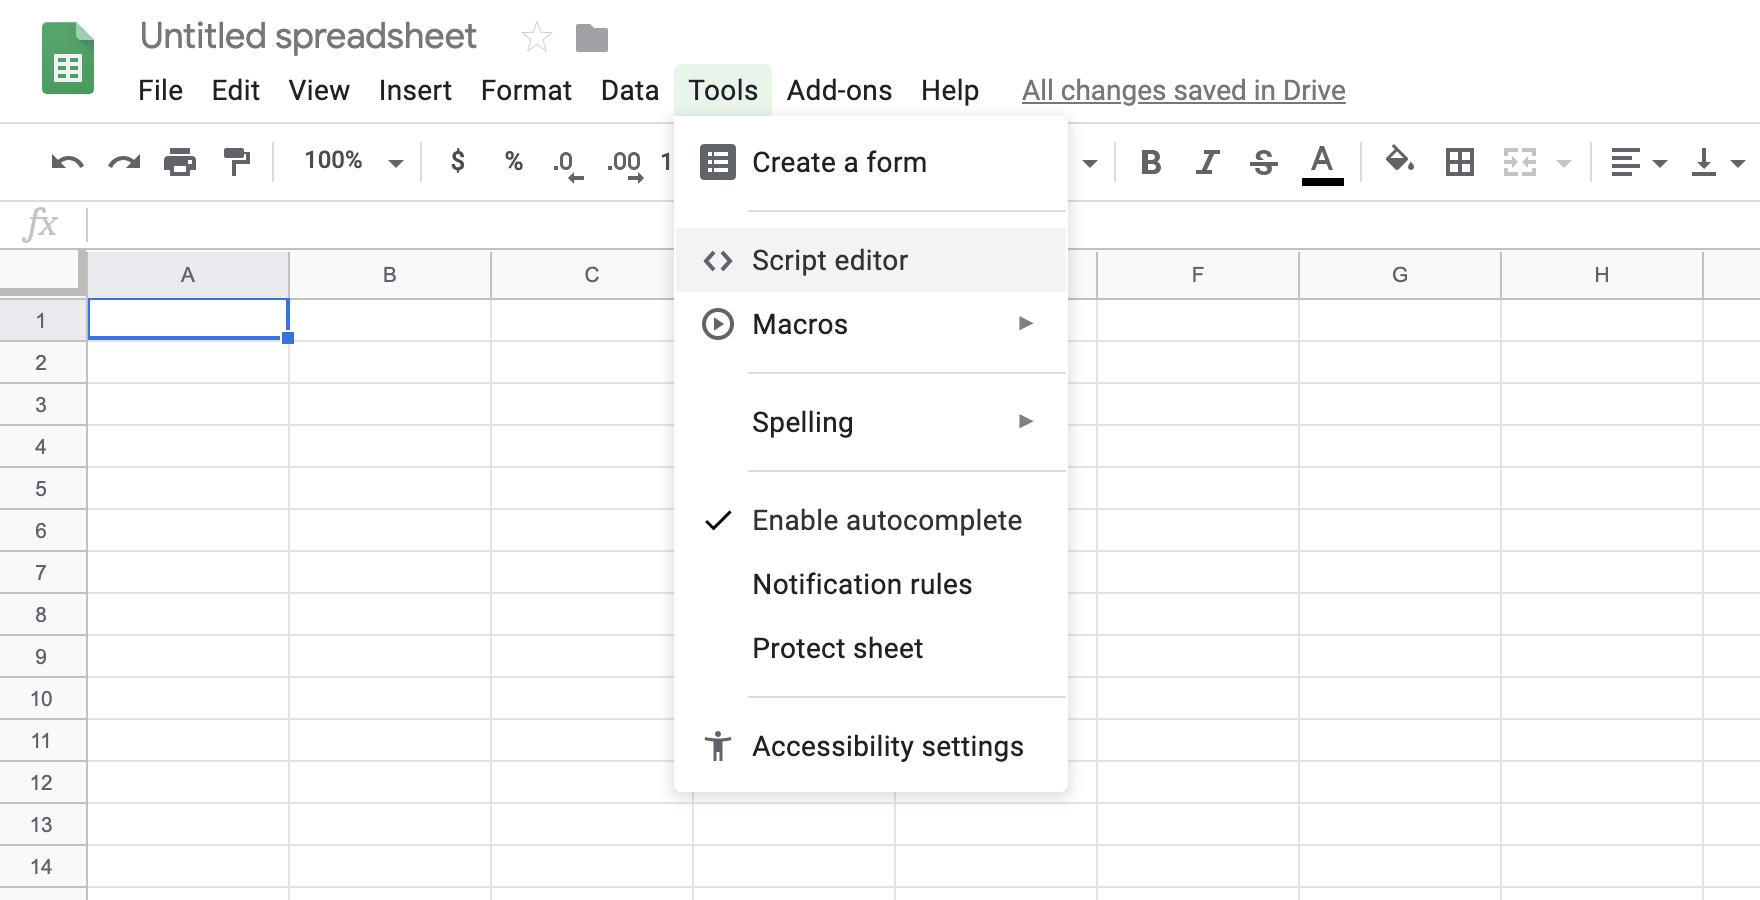
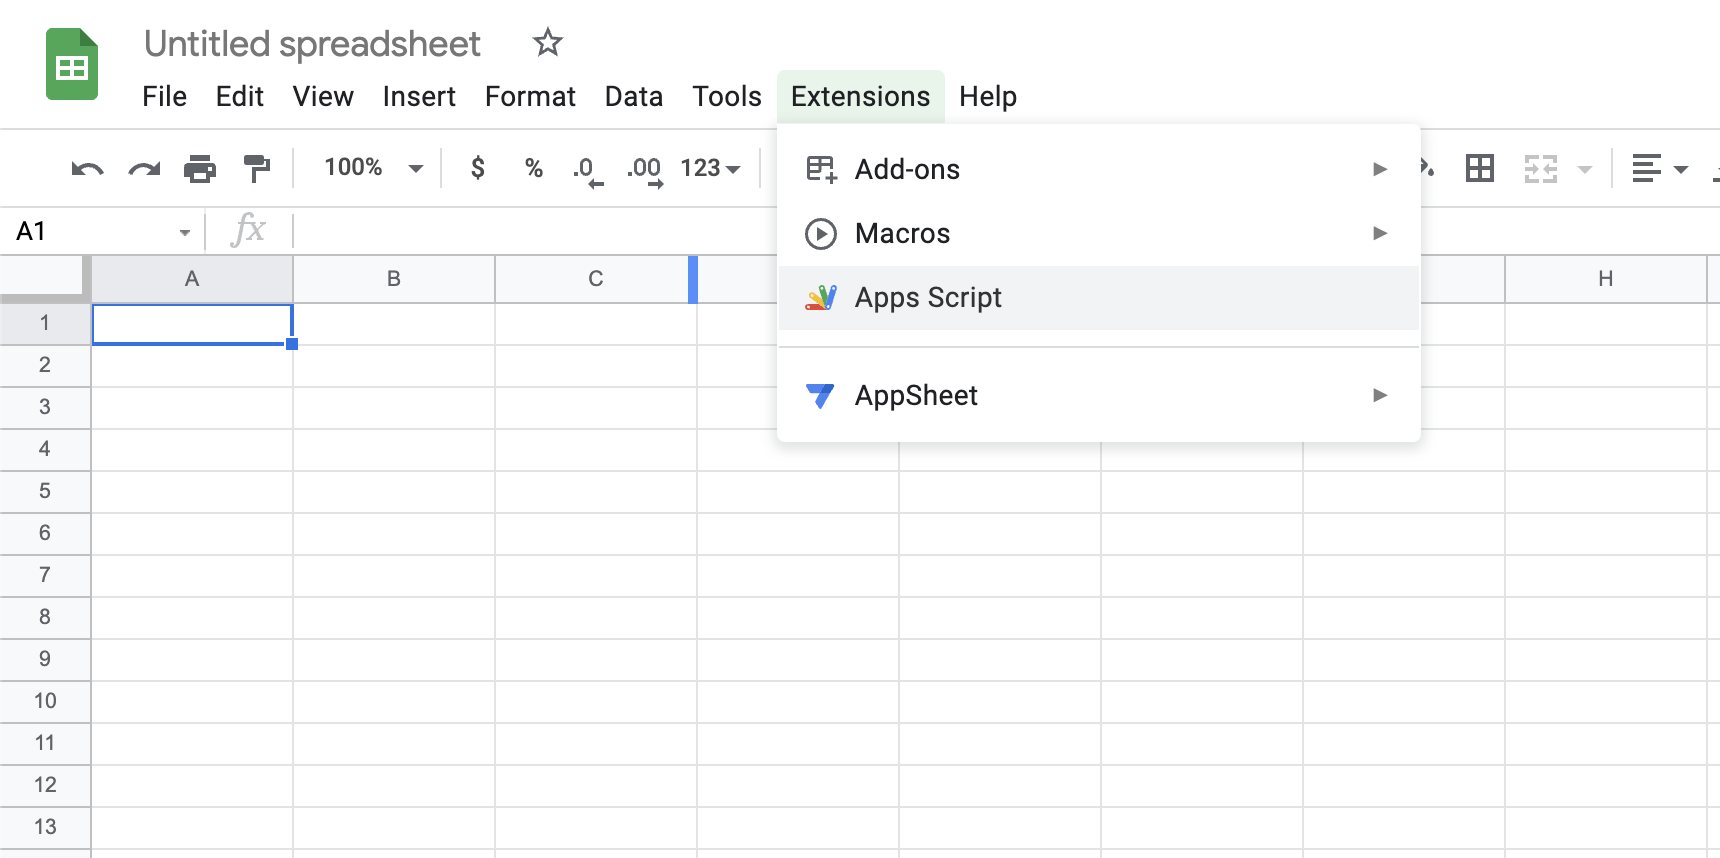
edit new menu name for Apps Script

diff --git a/build/blog/gmail-spreadsheet.html b/build/blog/gmail-spreadsheet.html
@@ -5,7 +5,7 @@ Spreadsheets?
 
 Whether you’re a small business owner looking to send updates about your
 product to your user base, a marketer looking for a free newsletter
-solution or a startup looking to bootstrap your sales ema..."><meta http-equiv="Content-Type" content="text/html; charset=UTF-8"></head><body class="bg-white dark:bg-black"><header class="bg-indigo-600 dark:bg-black text-center text-white p-8"><div class="text-4xl font-bold mb-4">Damien Gonot</div><div class="text-xl flex space-x-8 justify-center"><a href="/" class="hover:underline">Home</a> <a href="/blog" class="hover:underline">Blog</a> <a href="/about" class="hover:underline">About</a> <a id="theme" class="text-2xl hover:cursor-pointer hover:dark" onclick="toggleTheme()">🌝</a></div><script>function loadCss(e){let t=document.createElement("link");t.setAttribute("rel","stylesheet"),t.setAttribute("href",`/highlight.${e}.css`),document.getElementsByTagName("head")[0].appendChild(t)}function toggleTheme(){"dark"===localStorage.theme||!("theme"in localStorage)&&window.matchMedia("(prefers-color-scheme: dark)").matches?(document.documentElement.classList.remove("dark"),document.getElementById("theme").innerText="🌝",loadCss(localStorage.theme="light")):(document.documentElement.classList.add("dark"),document.getElementById("theme").innerText="🌞",loadCss(localStorage.theme="dark"))}"dark"===localStorage.theme||!("theme"in localStorage)&&window.matchMedia("(prefers-color-scheme: dark)").matches?(document.documentElement.classList.add("dark"),document.getElementById("theme").innerText="🌞",loadCss("dark")):(document.documentElement.classList.remove("dark"),document.getElementById("theme").innerText="🌝",loadCss("light"))</script><script src="/highlight.js"></script><script>hljs.highlightAll()</script></header><div class="prose prose-indigo dark:prose-invert dark:prose-a:text-indigo-400 max-w-3xl mx-auto p-8"><h1 class="text-center">🧨 Supercharge Your Spreadsheets With Free Emailing 📮</h1><div class="text-center">written on 2020-05-20</div><h2 id="introduction">Introduction</h2><p>Did you know it was possible to send free emails directly from Google Spreadsheets?</p><p>Whether you’re a small business owner looking to send updates about your product to your user base, a marketer looking for a free newsletter solution or a startup looking to bootstrap your sales emails without an expensive CRM, this article is made for you.</p><h2 id="spreadsheet-setup">Spreadsheet Setup</h2><p><a href="https://docs.google.com/spreadsheets/d/1Jg9fIoUMBI75eDGbEJGevcU2HHH59hTlK-v0k_A8Al4/edit?usp=sharing">Here is a sample sheet I’ll use as an example</a>.</p><figure><img src="/images/spreadsheet_sample.png" alt="Spreadsheet Sample"><figcaption aria-hidden="true">Spreadsheet Sample</figcaption></figure><p>Feel free to duplicate it by clicking on <strong>File &gt; Make a copy</strong>.</p><p>You can also create a new Google Spreadsheet (fastest way to is head to <a href="https://sheet.new">sheet.new</a>) if you want to start fresh.</p><p><strong>Columns A, B and C</strong> are pretty self-explanatory. You should replace the fictitious names &amp; emails with the real data you have about the people you want to send emails to.</p><p><strong>Column D</strong> is a template for our email title: <code>=CONCATENATE(INDEX(SPLIT(A2, " "), 1), ", have you heard about X?")</code>.</p><p><code>INDEX(SPLIT(A2, " "), 1)</code> means: “take the value in <code>A2</code>, split it by space, and take the first element from that split”. This is because we have a single column for “name” and it allows us to address the recipient by their first name only. If you have separate columns for first name and last name, this wouldn’t be necessary but the code would still work (unless your recipient has a space in their first name).</p><p><code>CONCATENATE()</code> allows to merge that first name we created from the full name column with the rest of our title template.</p><p>Similar thing in <strong>Column E</strong> with a twist: it would be a bit boring to have our entire on a single line, so <code>CHAR(10)</code> allows us to introduce line separators! <code>=CONCATENATE("Hi ", INDEX(SPLIT(A2, " "), 1), ", how are you?", CHAR(10), CHAR(10), "I just wanted to introduce you to my new project: X", CHAR(10), CHAR(10), "Cheers,", CHAR(10), "Damien")</code></p><p>Replace columns D &amp; E with the real text you wish to send.</p><h2 id="drafting-emails">Drafting Emails</h2><p>You can read more about setting up a Google Apps Script project from a spreadsheet in the “How to Access Google Apps Scripts?” section of my previous article <a href="/blog/pull-facebook-ads-google-spreadsheet">How to Automatically Pull Facebook Ads Data in Google Spreadsheet?</a>.</p><p>In the <strong>Tools &gt; Script Editor</strong> section, copy &amp; paste:</p><div class="sourceCode" id="cb1"><pre class="sourceCode javascript"><code class="sourceCode javascript"><span id="cb1-1"><a href="#cb1-1" aria-hidden="true" tabindex="-1"></a><span class="kw">function</span> <span class="fu">run</span>() {</span>
+solution or a startup looking to bootstrap your sales ema..."><meta http-equiv="Content-Type" content="text/html; charset=UTF-8"></head><body class="bg-white dark:bg-black"><header class="bg-indigo-600 dark:bg-black text-center text-white p-8"><div class="text-4xl font-bold mb-4">Damien Gonot</div><div class="text-xl flex space-x-8 justify-center"><a href="/" class="hover:underline">Home</a> <a href="/blog" class="hover:underline">Blog</a> <a href="/about" class="hover:underline">About</a> <a id="theme" class="text-2xl hover:cursor-pointer hover:dark" onclick="toggleTheme()">🌝</a></div><script>function loadCss(e){let t=document.createElement("link");t.setAttribute("rel","stylesheet"),t.setAttribute("href",`/highlight.${e}.css`),document.getElementsByTagName("head")[0].appendChild(t)}function toggleTheme(){"dark"===localStorage.theme||!("theme"in localStorage)&&window.matchMedia("(prefers-color-scheme: dark)").matches?(document.documentElement.classList.remove("dark"),document.getElementById("theme").innerText="🌝",loadCss(localStorage.theme="light")):(document.documentElement.classList.add("dark"),document.getElementById("theme").innerText="🌞",loadCss(localStorage.theme="dark"))}"dark"===localStorage.theme||!("theme"in localStorage)&&window.matchMedia("(prefers-color-scheme: dark)").matches?(document.documentElement.classList.add("dark"),document.getElementById("theme").innerText="🌞",loadCss("dark")):(document.documentElement.classList.remove("dark"),document.getElementById("theme").innerText="🌝",loadCss("light"))</script><script src="/highlight.js"></script><script>hljs.highlightAll()</script></header><div class="prose prose-indigo dark:prose-invert dark:prose-a:text-indigo-400 max-w-3xl mx-auto p-8"><h1 class="text-center">🧨 Supercharge Your Spreadsheets With Free Emailing 📮</h1><div class="text-center">written on 2020-05-20</div><h2 id="introduction">Introduction</h2><p>Did you know it was possible to send free emails directly from Google Spreadsheets?</p><p>Whether you’re a small business owner looking to send updates about your product to your user base, a marketer looking for a free newsletter solution or a startup looking to bootstrap your sales emails without an expensive CRM, this article is made for you.</p><h2 id="spreadsheet-setup">Spreadsheet Setup</h2><p><a href="https://docs.google.com/spreadsheets/d/1Jg9fIoUMBI75eDGbEJGevcU2HHH59hTlK-v0k_A8Al4/edit?usp=sharing">Here is a sample sheet I’ll use as an example</a>.</p><figure><img src="/images/spreadsheet_sample.png" alt="Spreadsheet Sample"><figcaption aria-hidden="true">Spreadsheet Sample</figcaption></figure><p>Feel free to duplicate it by clicking on <strong>File &gt; Make a copy</strong>.</p><p>You can also create a new Google Spreadsheet (fastest way to is head to <a href="https://sheet.new">sheet.new</a>) if you want to start fresh.</p><p><strong>Columns A, B and C</strong> are pretty self-explanatory. You should replace the fictitious names &amp; emails with the real data you have about the people you want to send emails to.</p><p><strong>Column D</strong> is a template for our email title: <code>=CONCATENATE(INDEX(SPLIT(A2, " "), 1), ", have you heard about X?")</code>.</p><p><code>INDEX(SPLIT(A2, " "), 1)</code> means: “take the value in <code>A2</code>, split it by space, and take the first element from that split”. This is because we have a single column for “name” and it allows us to address the recipient by their first name only. If you have separate columns for first name and last name, this wouldn’t be necessary but the code would still work (unless your recipient has a space in their first name).</p><p><code>CONCATENATE()</code> allows to merge that first name we created from the full name column with the rest of our title template.</p><p>Similar thing in <strong>Column E</strong> with a twist: it would be a bit boring to have our entire on a single line, so <code>CHAR(10)</code> allows us to introduce line separators! <code>=CONCATENATE("Hi ", INDEX(SPLIT(A2, " "), 1), ", how are you?", CHAR(10), CHAR(10), "I just wanted to introduce you to my new project: X", CHAR(10), CHAR(10), "Cheers,", CHAR(10), "Damien")</code></p><p>Replace columns D &amp; E with the real text you wish to send.</p><h2 id="drafting-emails">Drafting Emails</h2><p>You can read more about setting up a Google Apps Script project from a spreadsheet in the “How to Access Google Apps Scripts?” section of my previous article <a href="/blog/pull-facebook-ads-google-spreadsheet">How to Automatically Pull Facebook Ads Data in Google Spreadsheet?</a>.</p><p>In the <strong>Extensions &gt; Apps Script</strong> section, copy &amp; paste:</p><div class="sourceCode" id="cb1"><pre class="sourceCode javascript"><code class="sourceCode javascript"><span id="cb1-1"><a href="#cb1-1" aria-hidden="true" tabindex="-1"></a><span class="kw">function</span> <span class="fu">run</span>() {</span>
 <span id="cb1-2"><a href="#cb1-2" aria-hidden="true" tabindex="-1"></a>  <span class="kw">var</span> sheet <span class="op">=</span> SpreadsheetApp<span class="op">.</span><span class="fu">getActiveSheet</span>()<span class="op">;</span></span>
 <span id="cb1-3"><a href="#cb1-3" aria-hidden="true" tabindex="-1"></a>  <span class="kw">var</span> data <span class="op">=</span> sheet<span class="op">.</span><span class="fu">getRange</span>(<span class="dv">2</span><span class="op">,</span> <span class="dv">1</span><span class="op">,</span> sheet<span class="op">.</span><span class="fu">getLastRow</span>()<span class="op">-</span><span class="dv">1</span><span class="op">,</span> sheet<span class="op">.</span><span class="fu">getLastColumn</span>())<span class="op">.</span><span class="fu">getValues</span>()<span class="op">;</span></span>
 <span id="cb1-4"><a href="#cb1-4" aria-hidden="true" tabindex="-1"></a>  data<span class="op">.</span><span class="fu">forEach</span>(<span class="kw">function</span>(row) {</span>

diff --git a/build/blog/pull-facebook-ads-google-spreadsheet.html b/build/blog/pull-facebook-ads-google-spreadsheet.html
@@ -6,7 +6,7 @@ allow for quick analyses and no coding is required.
 They’re also often used as internal dashboards to measure and track the
 performance of ads.
 
-But did you know it was possible to use JavaScript to run scripts in..."><meta http-equiv="Content-Type" content="text/html; charset=UTF-8"></head><body class="bg-white dark:bg-black"><header class="bg-indigo-600 dark:bg-black text-center text-white p-8"><div class="text-4xl font-bold mb-4">Damien Gonot</div><div class="text-xl flex space-x-8 justify-center"><a href="/" class="hover:underline">Home</a> <a href="/blog" class="hover:underline">Blog</a> <a href="/about" class="hover:underline">About</a> <a id="theme" class="text-2xl hover:cursor-pointer hover:dark" onclick="toggleTheme()">🌝</a></div><script>function loadCss(e){let t=document.createElement("link");t.setAttribute("rel","stylesheet"),t.setAttribute("href",`/highlight.${e}.css`),document.getElementsByTagName("head")[0].appendChild(t)}function toggleTheme(){"dark"===localStorage.theme||!("theme"in localStorage)&&window.matchMedia("(prefers-color-scheme: dark)").matches?(document.documentElement.classList.remove("dark"),document.getElementById("theme").innerText="🌝",loadCss(localStorage.theme="light")):(document.documentElement.classList.add("dark"),document.getElementById("theme").innerText="🌞",loadCss(localStorage.theme="dark"))}"dark"===localStorage.theme||!("theme"in localStorage)&&window.matchMedia("(prefers-color-scheme: dark)").matches?(document.documentElement.classList.add("dark"),document.getElementById("theme").innerText="🌞",loadCss("dark")):(document.documentElement.classList.remove("dark"),document.getElementById("theme").innerText="🌝",loadCss("light"))</script><script src="/highlight.js"></script><script>hljs.highlightAll()</script></header><div class="prose prose-indigo dark:prose-invert dark:prose-a:text-indigo-400 max-w-3xl mx-auto p-8"><h1 class="text-center">How to Automatically Pull Facebook Ads Data in Google Spreadsheet?</h1><div class="text-center">written on 2020-02-02</div><h2 id="introduction">Introduction</h2><p>We all know how much marketers love spreadsheets. They’re versatile, allow for quick analyses and no coding is required.</p><p>They’re also often used as internal dashboards to measure and track the performance of ads.</p><p>But did you know it was possible to use JavaScript to run scripts inside Google Spreadsheets? A little known feature even allows us to write our own custom spreadsheet functions that can be used in any cell of any sheet.</p><p>This is the feature from Google Apps Scripts we’re going to use to automatically pull Facebook Ads data directly in our spreadsheets.</p><h2 id="how-to-access-google-apps-scripts">How to Access Google Apps Scripts?</h2><p>First, let’s create a fresh Google Spreadsheet using the handy <a href="https://sheet.new">sheet.new</a> URL, or navigate to your day-to-day marketing dashboard.</p><p>You should see an empty Google Spreadsheet, as below.</p><figure><img src="/images/empty_sheet.png" alt="Empty Sheet"><figcaption aria-hidden="true">Empty Sheet</figcaption></figure><p>Next, click on: <strong>Tool &gt; Script Editor</strong></p><figure><img src="/images/script_editor_menu.png" alt="Script Editor Menu"><figcaption aria-hidden="true">Script Editor Menu</figcaption></figure><p>A new browser window should have opened showing Google Apps Script’s IDE (code editor) with an empty <code>myFunction</code>.</p><figure><img src="/images/empty_script.png" alt="Empty Script"><figcaption aria-hidden="true">Empty Script</figcaption></figure><p><del>Note that Google Apps Scripts does not support ES6 but older versions of JavaScript only.</del></p><p>Edit: With Google’s introduction of the V8 runtime for Google Apps Scripts, it is <a href="https://developers.google.com/apps-script/guides/v8-runtime#modern_ecmascript_syntax">now possible to use modern ECMAScript syntax</a>.</p><h2 id="discovering-google-apps-script">Discovering Google Apps Script</h2><h3 id="hello-world-in-google-apps-script">Hello, World! in Google Apps Script</h3><p>Let’s do a quick “Hello, World!” in Google Apps Script.</p><p>One of the main differences from vanilla JavaScript is that logging isn’t done by <code>console.log()</code> but <code>Logger.log()</code> instead.</p><p>Insert <code>Logger.log('Hello, World');</code> in the “base” function:</p><div class="sourceCode" id="cb1"><pre class="sourceCode javascript"><code class="sourceCode javascript"><span id="cb1-1"><a href="#cb1-1" aria-hidden="true" tabindex="-1"></a><span class="kw">function</span> <span class="fu">myFunction</span>() {</span>
+But did you know it was possible to use JavaScript to run scripts in..."><meta http-equiv="Content-Type" content="text/html; charset=UTF-8"></head><body class="bg-white dark:bg-black"><header class="bg-indigo-600 dark:bg-black text-center text-white p-8"><div class="text-4xl font-bold mb-4">Damien Gonot</div><div class="text-xl flex space-x-8 justify-center"><a href="/" class="hover:underline">Home</a> <a href="/blog" class="hover:underline">Blog</a> <a href="/about" class="hover:underline">About</a> <a id="theme" class="text-2xl hover:cursor-pointer hover:dark" onclick="toggleTheme()">🌝</a></div><script>function loadCss(e){let t=document.createElement("link");t.setAttribute("rel","stylesheet"),t.setAttribute("href",`/highlight.${e}.css`),document.getElementsByTagName("head")[0].appendChild(t)}function toggleTheme(){"dark"===localStorage.theme||!("theme"in localStorage)&&window.matchMedia("(prefers-color-scheme: dark)").matches?(document.documentElement.classList.remove("dark"),document.getElementById("theme").innerText="🌝",loadCss(localStorage.theme="light")):(document.documentElement.classList.add("dark"),document.getElementById("theme").innerText="🌞",loadCss(localStorage.theme="dark"))}"dark"===localStorage.theme||!("theme"in localStorage)&&window.matchMedia("(prefers-color-scheme: dark)").matches?(document.documentElement.classList.add("dark"),document.getElementById("theme").innerText="🌞",loadCss("dark")):(document.documentElement.classList.remove("dark"),document.getElementById("theme").innerText="🌝",loadCss("light"))</script><script src="/highlight.js"></script><script>hljs.highlightAll()</script></header><div class="prose prose-indigo dark:prose-invert dark:prose-a:text-indigo-400 max-w-3xl mx-auto p-8"><h1 class="text-center">How to Automatically Pull Facebook Ads Data in Google Spreadsheet?</h1><div class="text-center">written on 2020-02-02</div><h2 id="introduction">Introduction</h2><p>We all know how much marketers love spreadsheets. They’re versatile, allow for quick analyses and no coding is required.</p><p>They’re also often used as internal dashboards to measure and track the performance of ads.</p><p>But did you know it was possible to use JavaScript to run scripts inside Google Spreadsheets? A little known feature even allows us to write our own custom spreadsheet functions that can be used in any cell of any sheet.</p><p>This is the feature from Google Apps Scripts we’re going to use to automatically pull Facebook Ads data directly in our spreadsheets.</p><h2 id="how-to-access-google-apps-scripts">How to Access Google Apps Scripts?</h2><p>First, let’s create a fresh Google Spreadsheet using the handy <a href="https://sheet.new">sheet.new</a> URL, or navigate to your day-to-day marketing dashboard.</p><p>You should see an empty Google Spreadsheet, as below.</p><figure><img src="/images/empty_sheet.png" alt="Empty Sheet"><figcaption aria-hidden="true">Empty Sheet</figcaption></figure><p>Next, click on: <strong>Extensions &gt; Apps Script</strong></p><figure><img src="/images/script_editor_menu.png" alt="Script Editor Menu"><figcaption aria-hidden="true">Script Editor Menu</figcaption></figure><p>A new browser window should have opened showing Google Apps Script’s IDE (code editor) with an empty <code>myFunction</code>.</p><figure><img src="/images/empty_script.png" alt="Empty Script"><figcaption aria-hidden="true">Empty Script</figcaption></figure><p><del>Note that Google Apps Scripts does not support ES6 but older versions of JavaScript only.</del></p><p>Edit: With Google’s introduction of the V8 runtime for Google Apps Scripts, it is <a href="https://developers.google.com/apps-script/guides/v8-runtime#modern_ecmascript_syntax">now possible to use modern ECMAScript syntax</a>.</p><h2 id="discovering-google-apps-script">Discovering Google Apps Script</h2><h3 id="hello-world-in-google-apps-script">Hello, World! in Google Apps Script</h3><p>Let’s do a quick “Hello, World!” in Google Apps Script.</p><p>One of the main differences from vanilla JavaScript is that logging isn’t done by <code>console.log()</code> but <code>Logger.log()</code> instead.</p><p>Insert <code>Logger.log('Hello, World');</code> in the “base” function:</p><div class="sourceCode" id="cb1"><pre class="sourceCode javascript"><code class="sourceCode javascript"><span id="cb1-1"><a href="#cb1-1" aria-hidden="true" tabindex="-1"></a><span class="kw">function</span> <span class="fu">myFunction</span>() {</span>
 <span id="cb1-2"><a href="#cb1-2" aria-hidden="true" tabindex="-1"></a>  Logger<span class="op">.</span><span class="fu">log</span>(<span class="st">&#39;Hello, World!&#39;</span>)<span class="op">;</span></span>
 <span id="cb1-3"><a href="#cb1-3" aria-hidden="true" tabindex="-1"></a>}</span></code></pre></div><p>Hit save 💾 or use the Ctrl/Cmd + S shortcut.</p><p>Next, run the script ▶.</p><p>Go to View &gt; Logs or use the Ctrl/Cmd + Enter shortcut to open the Logs window.</p><p>Congrats, you’ve run your first Google Apps Script! <img src="/images/logs_hello_world_700.png" alt="Logs Hello World"></p><h3 id="custom-function-basic-example">Custom Function Basic Example</h3><p>Let’s do a very simple custom function to show how it’s possible to create our own personal functions in Google Spreadsheet.</p><p>Replace the code in the Google Apps Script code editor to be:</p><div class="sourceCode" id="cb2"><pre class="sourceCode javascript"><code class="sourceCode javascript"><span id="cb2-1"><a href="#cb2-1" aria-hidden="true" tabindex="-1"></a><span class="kw">function</span> <span class="fu">double</span>(number) {</span>
 <span id="cb2-2"><a href="#cb2-2" aria-hidden="true" tabindex="-1"></a>  <span class="cf">return</span> number <span class="op">*</span> <span class="dv">2</span><span class="op">;</span></span>

diff --git a/src/posts/gmail-spreadsheet.md b/src/posts/gmail-spreadsheet.md
@@ -34,7 +34,7 @@ Replace columns D & E with the real text you wish to send.
 # Drafting Emails
 You can read more about setting up a Google Apps Script project from a spreadsheet in the "How to Access Google Apps Scripts?" section of my previous article [How to Automatically Pull Facebook Ads Data in Google Spreadsheet?](/blog/pull-facebook-ads-google-spreadsheet).
 
-In the __Tools > Script Editor__ section, copy & paste:
+In the __Extensions > Apps Script__ section, copy & paste:
 ```javascript
 function run() {
   var sheet = SpreadsheetApp.getActiveSheet();

diff --git a/src/posts/pull-facebook-ads-google-spreadsheet.md b/src/posts/pull-facebook-ads-google-spreadsheet.md
@@ -20,7 +20,7 @@ You should see an empty Google Spreadsheet, as below.
 
 ![Empty Sheet](/images/empty_sheet.png)
 
-Next, click on: __Tool > Script Editor__
+Next, click on: __Extensions > Apps Script__
 
 ![Script Editor Menu](/images/script_editor_menu.png)
 
